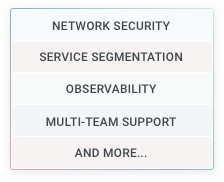
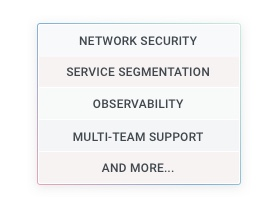
Normalized the dimensions of all the diagrams below the masthead.

Changed region(s): [[0.0312, 0.0275, 0.9688, 0.9341], [0.1875, 0.6319, 0.7812, 0.7143], [0.2812, 0.4396, 0.7188, 0.522]]

diff --git a/docs/.vuepress/theme/styles/custom/pages/_page-home.scss b/docs/.vuepress/theme/styles/custom/pages/_page-home.scss
@@ -2,7 +2,7 @@
 // Homepage
 // 
 
-$home-feature-icon-bottom-spacing: 2rem;
+$home-feature-icon-bottom-spacing: 1rem;
 
 .page-container--home {
 
@@ -100,34 +100,12 @@ $home-feature-icon-bottom-spacing: 2rem;
   
   img {
     margin: 0 auto $home-feature-icon-bottom-spacing auto;
+    max-width: 18rem;
   }
 
   p {
     margin: 0;
     padding: 0;
-  }
-
-  // individual content blocks
-
-  &.content__feature-block-content-1 {
-
-    img {
-      max-width: 13.875rem;
-    }
-  }
-
-  &.content__feature-block-content-2 {
-
-    img {
-      max-width: 14rem;
-    }
-  }
-
-  &.content__feature-block-content-3 {
-
-    img {
-      max-width: 14.625rem;
-    }
   }
 }
 
